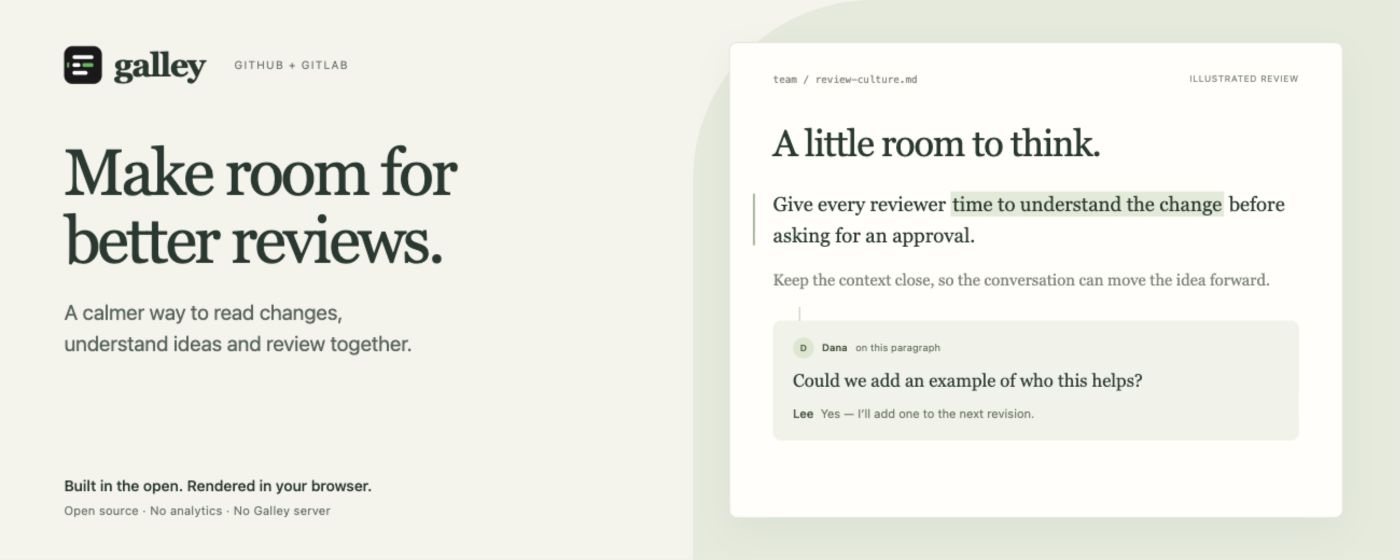
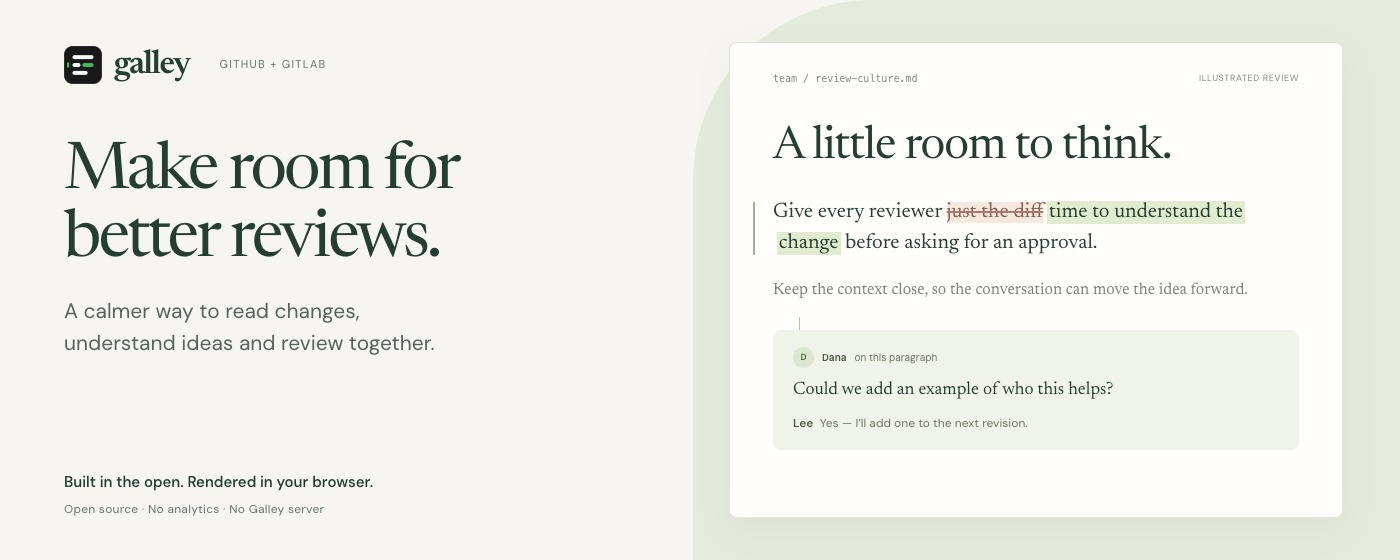
Regenerate store artwork with the bundled reader fonts
Embed the bundled Newsreader and DM Sans faces in the promo templates so
the tiles and README hero match the reader and website, with the sage
insertion and rose deletion treatment. Refresh the entry screenshot, which
still showed the launcher in its dark-appearance colours on a light page.

diff --git a/store/templates/promo-marquee.html b/store/templates/promo-marquee.html
@@ -5,36 +5,39 @@
     <title>Galley — Make room for better reviews</title>
     <style>
       html, body { width: var(--artwork-width, 1400px); height: var(--artwork-height, 560px); margin: 0; overflow: hidden; }
-      body { background: #f4f3eb; color: #25392f; font-family: system-ui, -apple-system, "Segoe UI", sans-serif; }
+      body { background: #f6f5ef; color: #243e32; font-family: var(--sans); }
+      body { font-optical-sizing: auto; font-kerning: normal; -webkit-font-smoothing: antialiased; }
       * { box-sizing: border-box; }
       .canvas { position: relative; width: 1400px; height: 560px; transform: scale(var(--artwork-scale, 1)); transform-origin: top left; overflow: hidden; }
       .copy { position: absolute; left: 64px; top: 46px; width: 550px; }
       .brand { display: flex; align-items: center; gap: 12px; }
       .brand svg { width: 38px; height: 38px; }
-      .word { font: 700 33px/1 Georgia, serif; letter-spacing: -1.4px; }
-      .platforms { margin-left: 18px; color: #67756a; font: 11px/1.4 system-ui, sans-serif; letter-spacing: 1.3px; text-transform: uppercase; }
-      h1 { margin: 55px 0 22px; font: 400 65px/1.04 Georgia, serif; letter-spacing: -2.8px; }
+      .word { font: 600 33px/1 var(--serif); letter-spacing: -1.4px; }
+      .platforms { margin-left: 18px; color: #67756a; font: 11px/1.4 var(--sans); letter-spacing: 1.3px; text-transform: uppercase; }
+      h1 { margin: 55px 0 22px; font: 400 65px/1.04 var(--serif); letter-spacing: -2.8px; }
       .description { margin: 0; color: #55645a; font-size: 21px; line-height: 1.5; }
       .promise { position: absolute; left: 64px; bottom: 43px; }
       .promise strong { display: block; margin-bottom: 9px; font-size: 15px; font-weight: 550; }
       .promise p { margin: 0; color: #657469; font-size: 12px; letter-spacing: .25px; }
       .scene { position: absolute; left: 693px; top: 0; width: 707px; height: 560px; }
       .scene::before { content: ""; position: absolute; inset: 0; background: #e4eadc; border-radius: 180px 0 0 0; }
-      .paper { position: absolute; left: 36px; top: 42px; width: 614px; height: 476px; padding: 29px 43px; background: #fffefa; border: 1px solid #e3e5dc; border-radius: 8px; box-shadow: 0 12px 36px #25392f0d; }
+      .paper { position: absolute; left: 36px; top: 42px; width: 614px; height: 476px; padding: 29px 43px; background: #fffefa; border: 1px solid #e3e5dc; border-radius: 8px; box-shadow: 0 12px 36px #243e320d; }
       .meta { display: flex; justify-content: space-between; gap: 15px; color: #81897d; font: 10px/1.4 ui-monospace, monospace; }
-      .meta span:last-child { font: 9px/1.4 system-ui, sans-serif; letter-spacing: .6px; text-transform: uppercase; }
-      h2 { margin: 37px 0 24px; font: 400 37px/1.12 Georgia, serif; letter-spacing: -1.1px; }
-      .paragraph { position: relative; margin: 0; font: 20px/1.55 Georgia, serif; }
+      .meta span:last-child { font: 9px/1.4 var(--sans); letter-spacing: .6px; text-transform: uppercase; }
+      h2 { margin: 37px 0 24px; font: 400 46px/1.08 var(--serif); letter-spacing: -1.1px; }
+      .paragraph { position: relative; margin: 0; font: 21px/1.5 var(--serif); }
       .paragraph::before { content: ""; position: absolute; left: -20px; top: 5px; bottom: 5px; width: 2px; background: #9caf91; border-radius: 2px; }
-      ins { padding: 1px 2px; background: #e1ead9; text-decoration: none; box-decoration-break: clone; -webkit-box-decoration-break: clone; }
-      .context { margin: 18px 0 0; color: #7a8276; font: 16px/1.5 Georgia, serif; }
+      ins { padding: 1px 2px; background: #e1ebd0; text-decoration: none; box-decoration-break: clone; -webkit-box-decoration-break: clone; }
+      del { color: #895d50; background: #f5e9df; text-decoration-color: #ac796d; text-decoration-thickness: 1.5px; box-decoration-break: clone; -webkit-box-decoration-break: clone; }
+      del + ins { margin-inline-start: .18em; }
+      .context { margin: 18px 0 0; color: #7a8276; font: 16px/1.5 var(--serif); }
       .thread { position: relative; margin-top: 28px; padding: 17px 20px 18px; border-radius: 8px; background: #f0f3e9; }
       .thread::before { content: ""; position: absolute; top: -13px; left: 26px; height: 13px; width: 1px; background: #b6c3ac; }
       .thread-heading { display: flex; align-items: center; gap: 8px; color: #64735d; font-size: 10px; }
       .avatar { display: grid; place-items: center; width: 21px; height: 21px; border-radius: 50%; background: #dce6d0; color: #4b6241; font-size: 9px; font-weight: 600; }
       .thread-heading strong { font-weight: 600; color: #42563b; }
-      .thread p { margin: 10px 0 0; font: 18px/1.4 Georgia, serif; }
-      .thread .reply { margin-top: 12px; color: #697760; font: 12px/1.4 system-ui, sans-serif; }
+      .thread p { margin: 10px 0 0; font: 18px/1.4 var(--serif); }
+      .thread .reply { margin-top: 12px; color: #697760; font: 12px/1.4 var(--sans); }
       .thread .reply strong { color: #42563b; font-weight: 550; }
     </style>
   </head>
@@ -50,7 +53,7 @@
         <article class="paper">
           <div class="meta"><span>team / review-culture.md</span><span>Illustrated review</span></div>
           <h2>A little room to think.</h2>
-          <p class="paragraph">Give every reviewer <ins>time to understand the change</ins> before asking for an approval.</p>
+          <p class="paragraph">Give every reviewer <del>just the diff</del><ins>time to understand the change</ins> before asking for an approval.</p>
           <p class="context">Keep the context close, so the conversation can move the idea forward.</p>
           <aside class="thread">
             <div class="thread-heading"><span class="avatar">D</span><strong>Dana</strong><span>on this paragraph</span></div>

diff --git a/store/templates/promo-small.html b/store/templates/promo-small.html
@@ -5,12 +5,13 @@
     <title>Galley — Make room for better reviews</title>
     <style>
       html, body { width: 440px; height: 280px; margin: 0; overflow: hidden; }
-      body { box-sizing: border-box; padding: 25px 30px; background: #f4f3eb; color: #25392f; font-family: system-ui, -apple-system, "Segoe UI", sans-serif; }
+      body { box-sizing: border-box; padding: 25px 30px; background: #f6f5ef; color: #243e32; font-family: var(--sans); }
+      body { font-optical-sizing: auto; font-kerning: normal; -webkit-font-smoothing: antialiased; }
       .brand { display: flex; align-items: center; gap: 9px; }
       .brand svg { width: 28px; height: 28px; }
-      .word { font: 700 27px/1 Georgia, serif; letter-spacing: -1px; }
+      .word { font: 600 27px/1 var(--serif); letter-spacing: -1px; }
       .platforms { margin-left: auto; color: #67756a; font-size: 9px; letter-spacing: .8px; text-transform: uppercase; }
-      h1 { margin: 27px 0 13px; font: 400 40px/1.04 Georgia, serif; letter-spacing: -1.6px; }
+      h1 { margin: 27px 0 13px; font: 400 40px/1.04 var(--serif); letter-spacing: -1.6px; }
       .description { margin: 0; color: #55645a; font-size: 14px; line-height: 1.5; }
       .promise { position: absolute; bottom: 25px; margin: 0; color: #657469; font-size: 12px; letter-spacing: .12px; }
       .mark { position: absolute; top: 91px; right: 28px; height: 65px; width: 2px; background: #a6b996; border-radius: 2px; }

diff --git a/store/ARTWORK.md b/store/ARTWORK.md
@@ -4,7 +4,7 @@
 
 Galley exists to make reviewing clearer, calmer and easier on the people who do it. The artwork pairs a readable change with a thoughtful question and a reply: understanding and conversation belong together.
 
-Warm paper, forest ink and a muted green insertion keep the emphasis on the words. The extension's existing proof-text icon anchors the identity. System fonts, inline SVG and typeset HTML make the artwork reproducible without hosted fonts or external image services.
+Warm paper, forest ink and a muted green insertion keep the emphasis on the words. The extension's existing proof-text icon anchors the identity. Locally bundled Newsreader and DM Sans fonts, inline SVG and typeset HTML make the artwork reproducible without hosted fonts or external image services. The same fonts, sage insertions, rose deletions and replacement spacing are used in the website and reader.
 
 The illustrated review is labelled as an illustration. Product screenshots come from the actual demo reader. Privacy copy names concrete boundaries: open source, local rendering, no analytics and no Galley server. The README and privacy policy explain that files are fetched from the code host, comments are posted back to the review, and loading external images is a choice.
 
